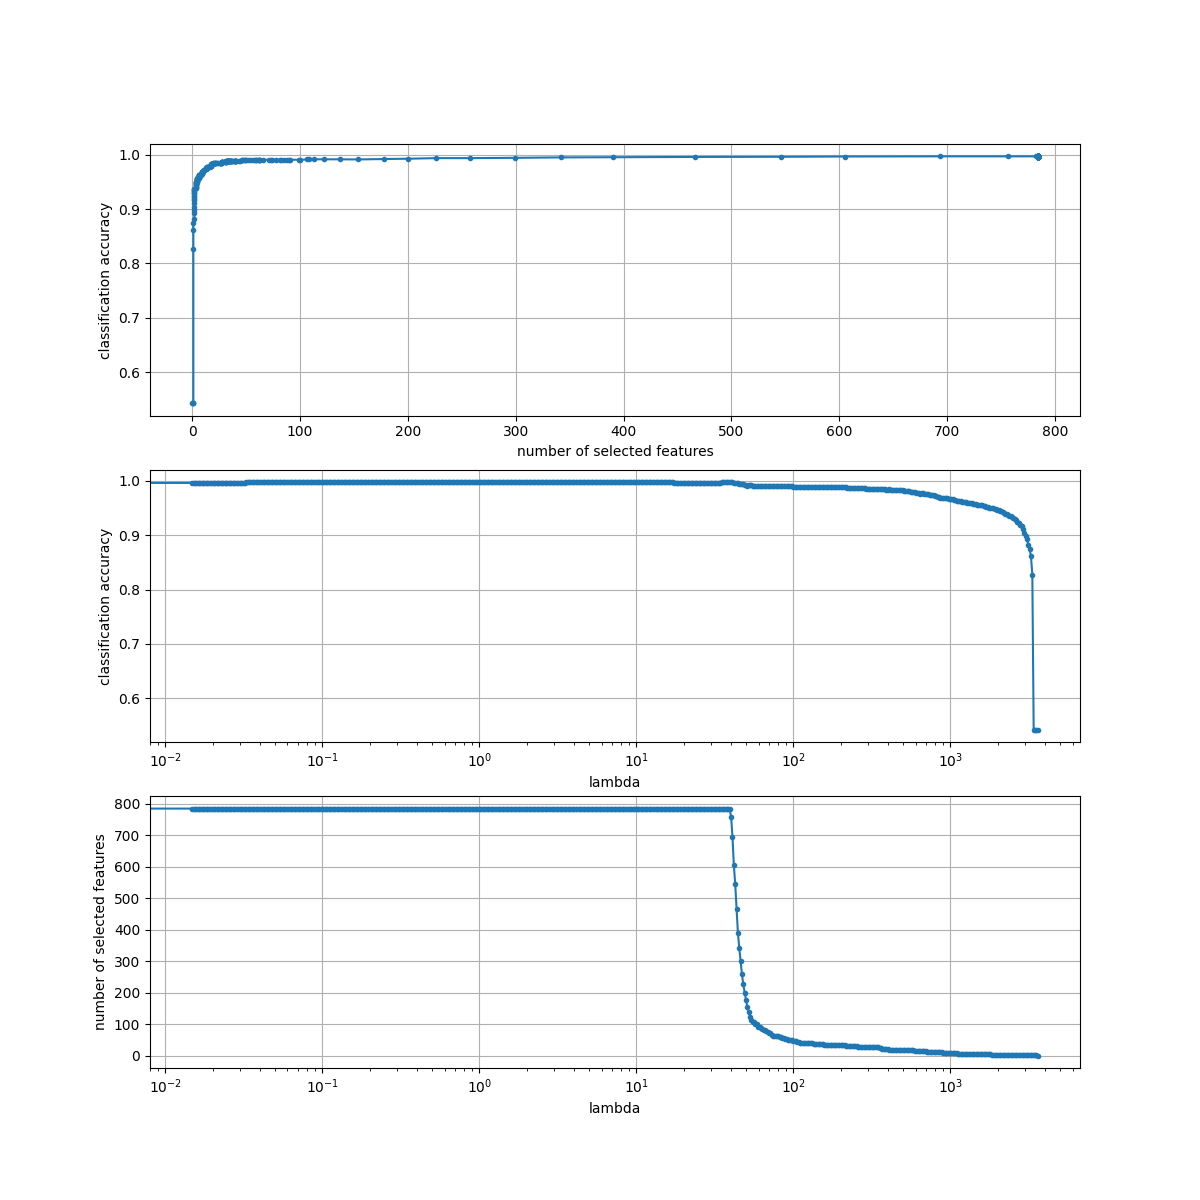
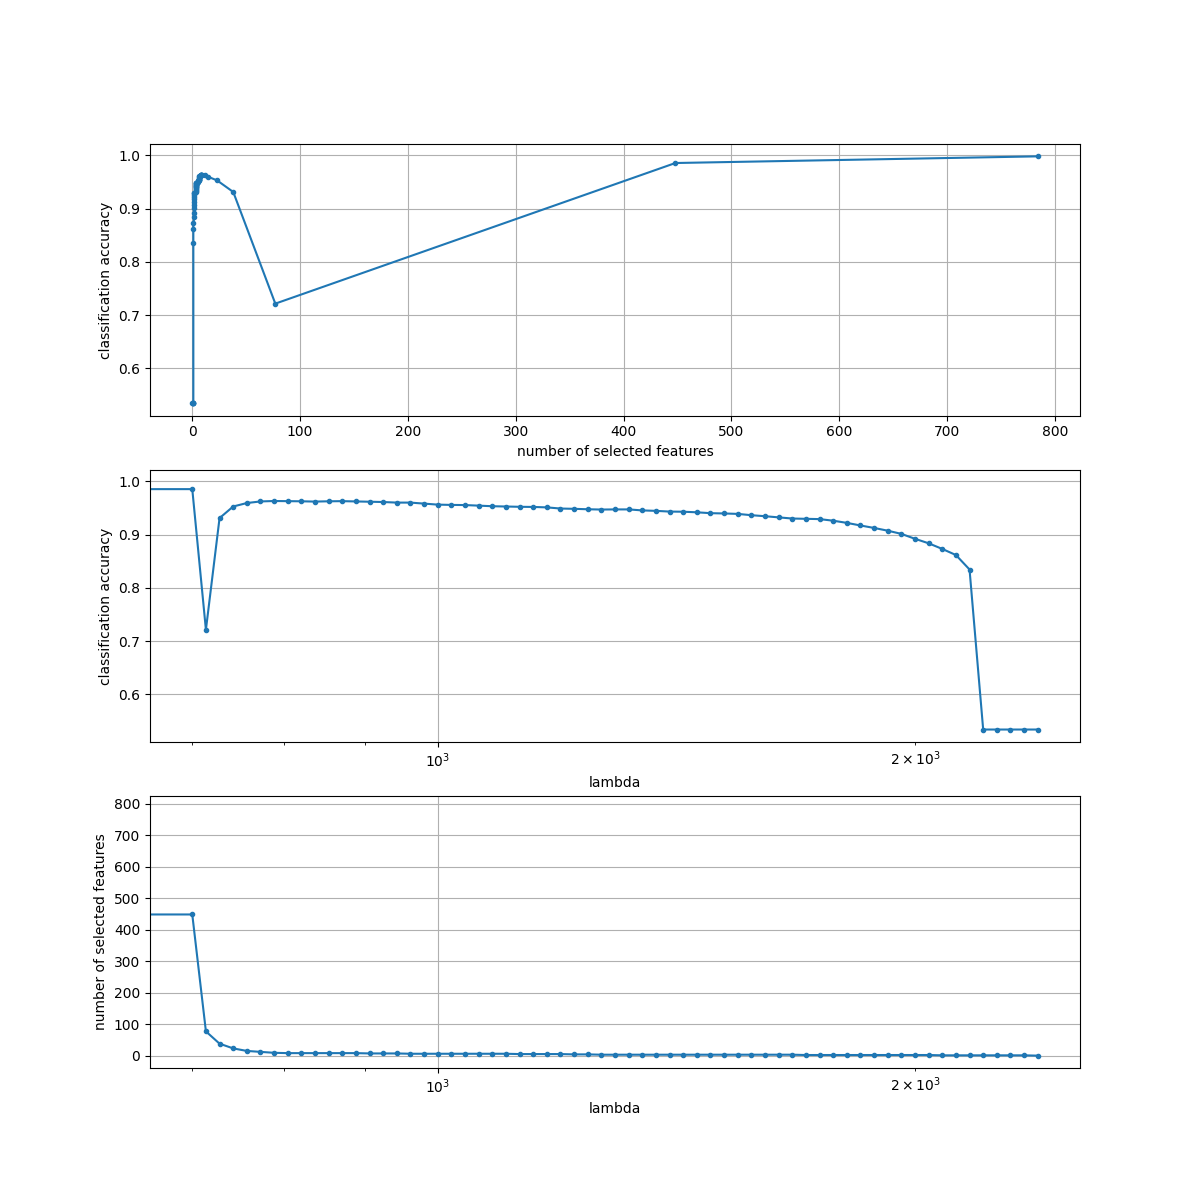
norm

diff --git a/lassonet/interfaces.py b/lassonet/interfaces.py
@@ -258,6 +258,7 @@ class BaseLassoNet(BaseEstimator, metaclass=ABCMeta):
         The optional `lambda_` argument will also stop the path when
         this value is reached.
         """
+        totalEpochsSpent = 0
         if not stochastic:
             X, y = data
             X_train, X_val, y_train, y_val = train_test_split(X, y, test_size=self.val_size)
@@ -328,6 +329,7 @@ class BaseLassoNet(BaseEstimator, metaclass=ABCMeta):
                 ),
             )
             last = hist[-1]
+            totalEpochsSpent += last.n_iters
             if self.verbose:
                 print("================================")
                 print(
@@ -346,7 +348,7 @@ class BaseLassoNet(BaseEstimator, metaclass=ABCMeta):
 
         self.feature_importances_ = self._compute_feature_importances(hist)
         """When does each feature disappear on the path?"""
-
+        print("Spent %d epochs in total" % (totalEpochsSpent))
         return hist
 
     @staticmethod

diff --git a/examples/data/__init__.py b/examples/data/__init__.py
@@ -46,8 +46,8 @@ def get_cifar_small(grayscale=True):
 
 def get_cifar(train=True, batch_size=64, val_size=.1, flatten=False):
     transformList = [torchvision.transforms.ToTensor(),
-                    torchvision.transforms.Normalize((0.4914, 0.4822, 0.4465),
-                                                     (0.2023, 0.1994, 0.2010)),
+                    torchvision.transforms.Normalize((0.485, 0.456, 0.406),
+                                                     (0.229, 0.224, 0.225)),
                     torchvision.transforms.Lambda(lambda x: torch.flatten(x)) if flatten else None]
     transform = torchvision.transforms.Compose([x for x in transformList if x is not None])
     dataset = torchvision.datasets.CIFAR10(os.path.join(os.getcwd(), 'data', 'cifar10'), train=train, download=True,

diff --git a/examples/mnist_classif.py b/examples/mnist_classif.py
@@ -9,7 +9,7 @@ X, y = get_mnist(['1', '4'])
 
 X_train, X_test, y_train, y_test = train_test_split(X, y)
 
-model = LassoNetClassifier(M=30, verbose=True, hidden_dims=(100,))
+model = LassoNetClassifier(M=30, verbose=True, hidden_dims=(100,), lambda_start=7e+2)
 path = model.path((X_train, y_train), stochastic=False)
 
 img = model.feature_importances_.reshape(28, 28)
